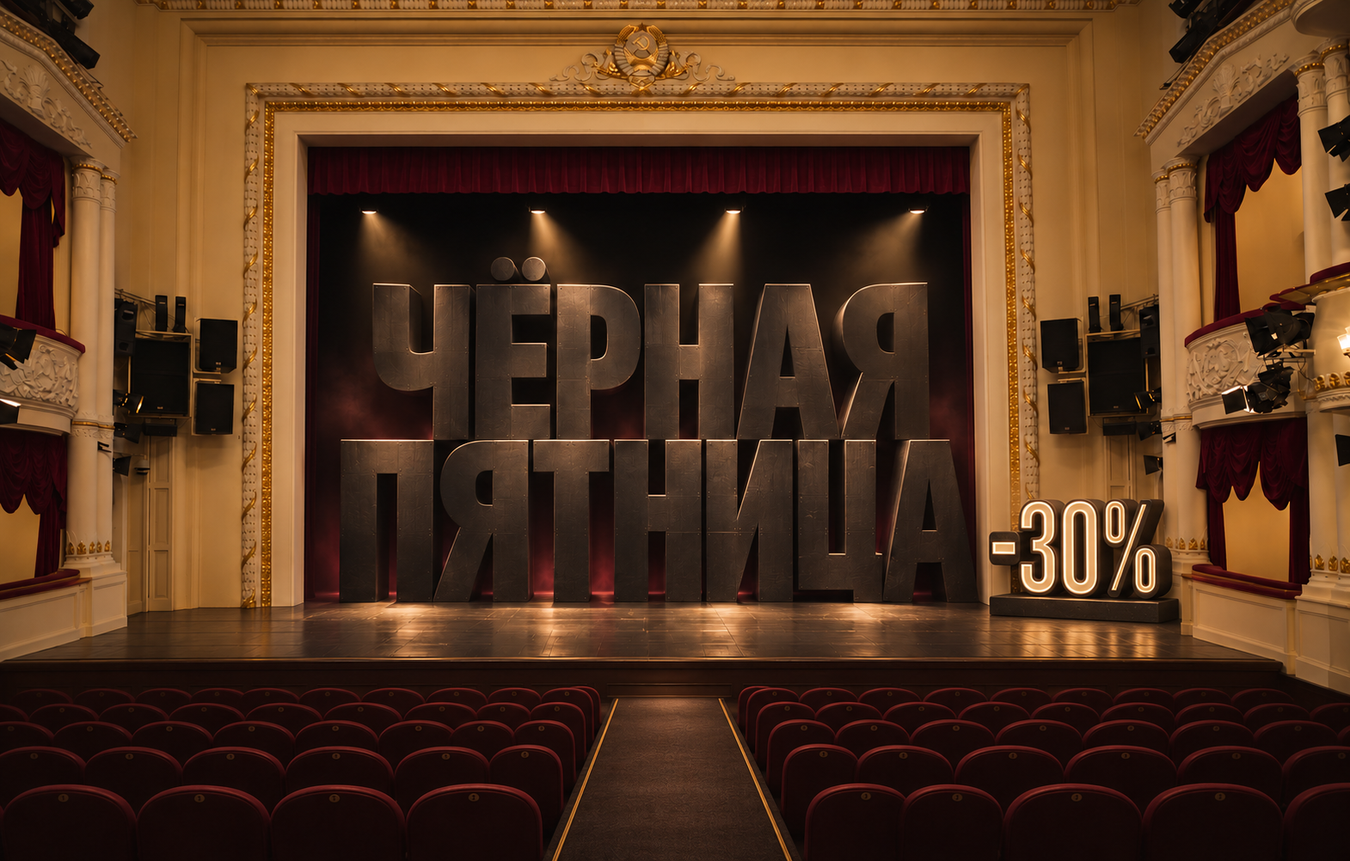
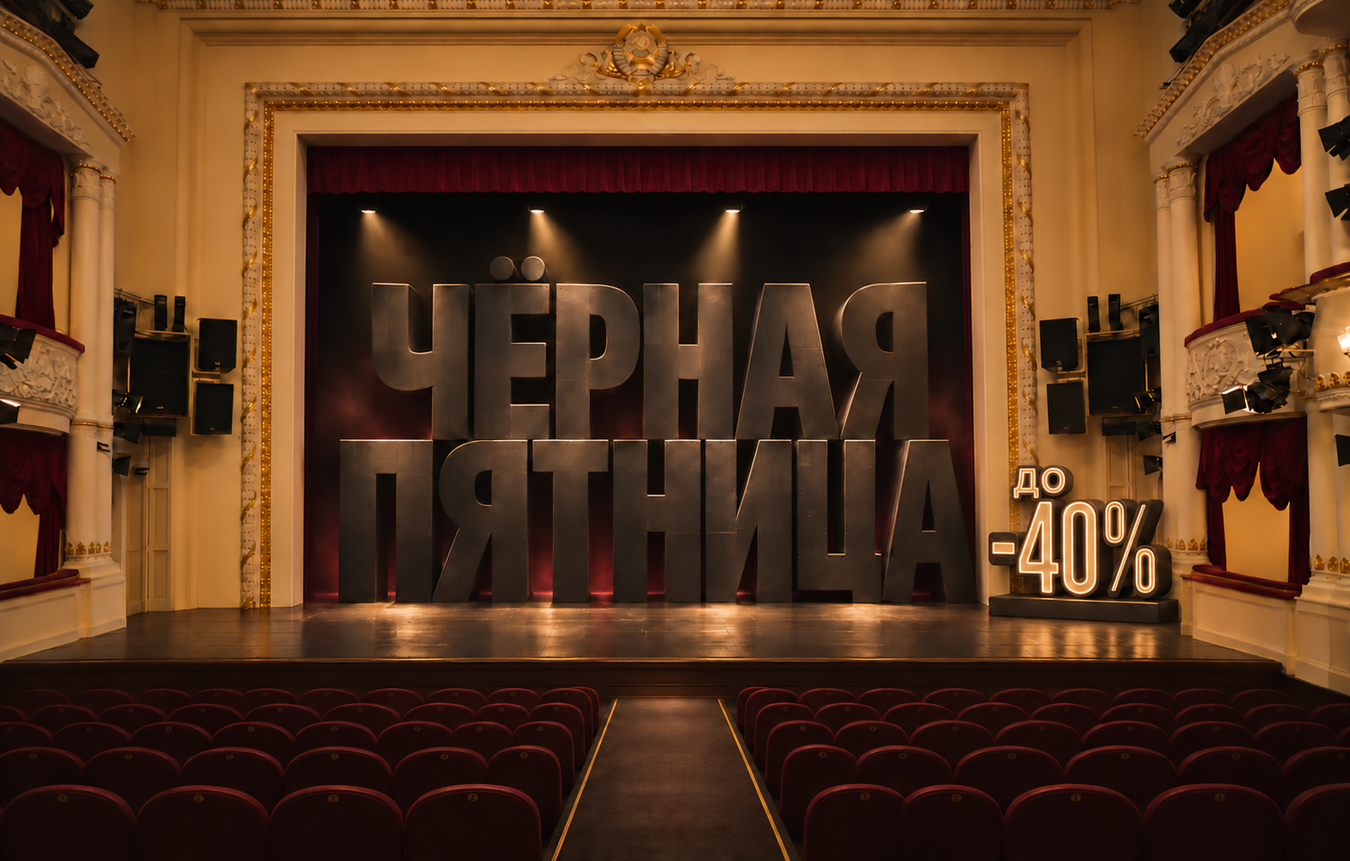
Add ПУШКА40 January stage and new −40% hero visual

diff --git a/src/components/promo/shows.ts b/src/components/promo/shows.ts
@@ -5,22 +5,41 @@ import servant from "@/assets/posters/servant.jpg";
 import krasavec from "@/assets/posters/handsome-man.jpg";
 import threeIvans from "@/assets/posters/three-ivans-stage.png";
 import idiot from "@/assets/posters/idiot.jpg";
+import reserve from "@/assets/posters/reserve.jpg";
 import tomorrowWasWar from "@/assets/posters/tomorrow-was-war.jpg";
 
+const JAN_FROM = "2026-11-25T00:00:00+03:00";
+const ext = (e: number, p: number) =>
+  `https://tickets-external.mos.ru/widget/wv2/ticket-selection?eventId=${e}&performanceId=${p}&agentId=museum110_notmos&system_name=pushkin`;
+
 export const shows: Show[] = [
-  { start: "2026-11-28T19:00:00+03:00", title: "Тартюф", discount: 30, poster: tartuffe, href: "https://tickets.mos.ru/widget/wv2/ticket-selection?eventId=71607&performanceId=57299089&agentId=museum110_reserv&system_name=pushkin" },
-  { start: "2026-11-29T12:00:00+03:00", title: "Три Ивана", discount: 30, poster: threeIvans, href: "https://tickets.mos.ru/widget/wv2/ticket-selection?eventId=71670&performanceId=57298798&agentId=museum110_reserv&system_name=pushkin" },
-  { start: "2026-11-29T19:00:00+03:00", title: "Слуга двух господ", discount: 30, poster: servant, href: "https://tickets.mos.ru/widget/wv2/ticket-selection?eventId=68708&performanceId=57299420&agentId=museum110_reserv&system_name=pushkin" },
-  { start: "2026-12-01T19:00:00+03:00", title: "Завтра была война", discount: 30, poster: tomorrowWasWar, href: "https://tickets-external.mos.ru/widget/wv2/ticket-selection?eventId=68700&performanceId=59543075&agentId=museum110_notmos&system_name=pushkin" },
-  { start: "2026-12-02T19:00:00+03:00", title: "Идиот", discount: 30, poster: idiot, href: "https://tickets-external.mos.ru/widget/wv2/ticket-selection?eventId=116238&performanceId=59543779&agentId=museum110_notmos&system_name=pushkin" },
-  { start: "2026-12-03T19:00:00+03:00", title: "Влюблённый Шекспир", discount: 30, poster: shakespeare, href: "https://tickets-external.mos.ru/widget/wv2/ticket-selection?eventId=68640&performanceId=59543969&agentId=museum110_notmos&system_name=pushkin" },
-  { start: "2026-12-12T12:00:00+03:00", title: "Три Ивана", discount: 30, poster: threeIvans, href: "https://tickets-external.mos.ru/widget/wv2/ticket-selection?eventId=71670&performanceId=59551212&agentId=museum110_notmos&system_name=pushkin" },
-  { start: "2026-12-19T19:00:00+03:00", title: "Идиот", discount: 30, poster: idiot, href: "https://tickets-external.mos.ru/widget/wv2/ticket-selection?eventId=116238&performanceId=59549609&agentId=museum110_notmos&system_name=pushkin" },
-  { start: "2026-12-24T19:00:00+03:00", title: "Красавец мужчина", discount: 30, poster: krasavec, href: "https://tickets-external.mos.ru/widget/wv2/ticket-selection?eventId=71673&performanceId=59555964&agentId=museum110_notmos&system_name=pushkin" },
-  { start: "2026-12-27T12:00:00+03:00", title: "Три Ивана", discount: 30, poster: threeIvans, href: "https://tickets-external.mos.ru/widget/wv2/ticket-selection?eventId=71670&performanceId=59551543&agentId=museum110_notmos&system_name=pushkin" },
+  { start: "2026-11-28T19:00:00+03:00", title: "Тартюф", discount: 30, promoCode: "ПУШКА30", poster: tartuffe, href: "https://tickets.mos.ru/widget/wv2/ticket-selection?eventId=71607&performanceId=57299089&agentId=museum110_reserv&system_name=pushkin" },
+  { start: "2026-11-29T12:00:00+03:00", title: "Три Ивана", discount: 30, promoCode: "ПУШКА30", poster: threeIvans, href: "https://tickets.mos.ru/widget/wv2/ticket-selection?eventId=71670&performanceId=57298798&agentId=museum110_reserv&system_name=pushkin" },
+  { start: "2026-11-29T19:00:00+03:00", title: "Слуга двух господ", discount: 30, promoCode: "ПУШКА30", poster: servant, href: "https://tickets.mos.ru/widget/wv2/ticket-selection?eventId=68708&performanceId=57299420&agentId=museum110_reserv&system_name=pushkin" },
+  { start: "2026-12-01T19:00:00+03:00", title: "Завтра была война", discount: 30, promoCode: "ПУШКА30", poster: tomorrowWasWar, href: "https://tickets-external.mos.ru/widget/wv2/ticket-selection?eventId=68700&performanceId=59543075&agentId=museum110_notmos&system_name=pushkin" },
+  { start: "2026-12-02T19:00:00+03:00", title: "Идиот", discount: 30, promoCode: "ПУШКА30", poster: idiot, href: "https://tickets-external.mos.ru/widget/wv2/ticket-selection?eventId=116238&performanceId=59543779&agentId=museum110_notmos&system_name=pushkin" },
+  { start: "2026-12-03T19:00:00+03:00", title: "Влюблённый Шекспир", discount: 30, promoCode: "ПУШКА30", poster: shakespeare, href: "https://tickets-external.mos.ru/widget/wv2/ticket-selection?eventId=68640&performanceId=59543969&agentId=museum110_notmos&system_name=pushkin" },
+  { start: "2026-12-12T12:00:00+03:00", title: "Три Ивана", discount: 30, promoCode: "ПУШКА30", poster: threeIvans, href: "https://tickets-external.mos.ru/widget/wv2/ticket-selection?eventId=71670&performanceId=59551212&agentId=museum110_notmos&system_name=pushkin" },
+  { start: "2026-12-19T19:00:00+03:00", title: "Идиот", discount: 30, promoCode: "ПУШКА30", poster: idiot, href: "https://tickets-external.mos.ru/widget/wv2/ticket-selection?eventId=116238&performanceId=59549609&agentId=museum110_notmos&system_name=pushkin" },
+  { start: "2026-12-24T19:00:00+03:00", title: "Красавец мужчина", discount: 30, promoCode: "ПУШКА30", poster: krasavec, href: "https://tickets-external.mos.ru/widget/wv2/ticket-selection?eventId=71673&performanceId=59555964&agentId=museum110_notmos&system_name=pushkin" },
+  { start: "2026-12-27T12:00:00+03:00", title: "Три Ивана", discount: 30, promoCode: "ПУШКА30", poster: threeIvans, href: "https://tickets-external.mos.ru/widget/wv2/ticket-selection?eventId=71670&performanceId=59551543&agentId=museum110_notmos&system_name=pushkin" },
+  { start: "2027-01-09T12:00:00+03:00", title: "Три Ивана", discount: 40, promoCode: "ПУШКА40", availableFrom: JAN_FROM, poster: threeIvans, href: ext(71670, 60719054) },
+  { start: "2027-01-10T12:00:00+03:00", title: "Аленький цветочек", discount: 40, promoCode: "ПУШКА40", availableFrom: JAN_FROM, href: ext(90922, 60719043) },
+  { start: "2027-01-10T19:00:00+03:00", title: "Тартюф", discount: 40, promoCode: "ПУШКА40", availableFrom: JAN_FROM, poster: tartuffe, href: ext(71607, 60837812) },
+  { start: "2027-01-14T19:00:00+03:00", title: "Сделка", discount: 40, promoCode: "ПУШКА40", availableFrom: JAN_FROM, href: ext(68649, 61570842) },
+  { start: "2027-01-15T19:00:00+03:00", title: "Идиот", discount: 40, promoCode: "ПУШКА40", availableFrom: JAN_FROM, poster: idiot, href: ext(116238, 61544312) },
+  { start: "2027-01-16T19:00:00+03:00", title: "Завтра была война", discount: 40, promoCode: "ПУШКА40", availableFrom: JAN_FROM, poster: tomorrowWasWar, href: ext(68700, 61544424) },
+  { start: "2027-01-21T19:00:00+03:00", title: "Заповедник", discount: 40, promoCode: "ПУШКА40", availableFrom: JAN_FROM, poster: reserve, href: ext(68683, 61547284) },
+  { start: "2027-01-26T19:00:00+03:00", title: "Космос", discount: 40, promoCode: "ПУШКА40", availableFrom: JAN_FROM, href: ext(68709, 61568104) },
+  { start: "2027-01-29T19:00:00+03:00", title: "Завтра была война", discount: 40, promoCode: "ПУШКА40", availableFrom: JAN_FROM, poster: tomorrowWasWar, href: ext(68700, 61568113) },
+  { start: "2027-01-30T12:00:00+03:00", title: "Три Ивана", discount: 40, promoCode: "ПУШКА40", availableFrom: JAN_FROM, poster: threeIvans, href: ext(71670, 61568133) },
+  { start: "2027-01-30T19:00:00+03:00", title: "Идиот", discount: 40, promoCode: "ПУШКА40", availableFrom: JAN_FROM, poster: idiot, href: ext(116238, 61568118) },
+  { start: "2027-01-31T19:00:00+03:00", title: "Слуга двух господ", discount: 40, promoCode: "ПУШКА40", availableFrom: JAN_FROM, poster: servant, href: ext(68708, 61568126) },
 ];
 
 /** Shows still on sale: a card disappears at the moment the performance starts. */
 export function upcomingShows(list: Show[], now: number): Show[] {
-  return list.filter((s) => now < new Date(s.start).getTime());
+  return list.filter(
+    (s) => now < new Date(s.start).getTime() && (!s.availableFrom || now >= new Date(s.availableFrom).getTime()),
+  );
 }

diff --git a/src/components/promo/Hero.tsx b/src/components/promo/Hero.tsx
@@ -1,20 +1,20 @@
 import { useState } from "react";
 import { toast } from "sonner";
 import { Copy, Check, ArrowDown } from "lucide-react";
-import stage from "@/assets/black_friday_stage.png";
 import stageWide from "@/assets/black_friday_stage_wide.png";
 
 export const PROMO_CODE = "ПУШКА30";
+export const PROMO_CODE_JAN = "ПУШКА40";
 
 export function Hero() {
-  const [copied, setCopied] = useState(false);
+  const [copied, setCopied] = useState<string | null>(null);
 
-  const handleCopy = async () => {
+  const handleCopy = async (code: string) => {
     try {
-      await navigator.clipboard.writeText(PROMO_CODE);
-      setCopied(true);
+      await navigator.clipboard.writeText(code);
+      setCopied(code);
       toast.success("Промокод скопирован");
-      setTimeout(() => setCopied(false), 2000);
+      setTimeout(() => setCopied(null), 2000);
     } catch {
       toast.error("Не удалось скопировать");
     }
@@ -24,18 +24,18 @@ export function Hero() {
     <section id="top" className="relative isolate overflow-hidden bg-background">
       {/* blurred ambient fill so the portrait visual spreads across wide screens */}
       <img
-        src={stage}
+        src={stageWide}
         alt=""
         aria-hidden="true"
         className="absolute inset-0 -z-20 h-full w-full scale-110 object-cover opacity-50 blur-2xl"
       />
       <div className="relative mx-auto -z-10 max-w-3xl md:hidden">
         <img
-          src={stage}
-          alt="Чёрная пятница в Театре имени Пушкина — скидка 30%"
-          width={1024}
-          height={1536}
-          className="block aspect-[2/3] max-h-[100vh] w-full object-cover object-[center_35%]"
+          src={stageWide}
+          alt="Чёрная пятница в Театре имени Пушкина — скидки до 40%"
+          width={1570}
+          height={1002}
+          className="block aspect-[4/5] max-h-[100vh] w-full object-cover object-[center_45%]"
         />
         <div className="pointer-events-none absolute inset-y-0 left-0 w-1/3 bg-gradient-to-r from-background/80 via-background/20 to-transparent" />
         <div className="pointer-events-none absolute inset-y-0 right-0 w-1/3 bg-gradient-to-l from-background/80 via-background/20 to-transparent" />
@@ -43,7 +43,7 @@ export function Hero() {
       <div className="relative -z-10 hidden md:block">
         <img
           src={stageWide}
-          alt="Чёрная пятница в Театре имени Пушкина — скидка 30%"
+          alt="Чёрная пятница в Театре имени Пушкина — скидки до 40%"
           width={1570}
           height={1002}
           className="block h-[88vh] min-h-[560px] w-full object-cover object-[center_40%]"
@@ -54,14 +54,15 @@ export function Hero() {
       <div className="pointer-events-none absolute inset-x-0 top-0 -z-10 h-32 bg-gradient-to-b from-background to-transparent" />
       <div className="pointer-events-none absolute inset-x-0 bottom-0 -z-10 h-[35%] bg-gradient-to-t from-background via-background/70 to-transparent" />
 
-      <h1 className="sr-only">Чёрная пятница в Театре имени Пушкина — скидка 30% по промокоду {PROMO_CODE}</h1>
+      <h1 className="sr-only">Чёрная пятница в Театре имени Пушкина — скидки до 40% по промокодам {PROMO_CODE} и {PROMO_CODE_JAN}</h1>
 
       <div className="relative -mt-24 px-4 pb-12 sm:-mt-28 sm:pb-16">
         <div className="mx-auto flex max-w-3xl flex-col items-center text-center">
           <p className=" max-w-xl text-base text-foreground/85 sm:text-lg">
-            Скидка <span className="font-bold text-accent">30%</span> на&nbsp;избранные спектакли
-            ноября и&nbsp;декабря по&nbsp;промокоду{" "}
-            <span className="font-bold text-foreground">{PROMO_CODE}</span>.
+            Скидка <span className="font-bold text-accent">30%</span> на&nbsp;спектакли ноября и&nbsp;декабря
+            по&nbsp;промокоду <span className="font-bold text-foreground">{PROMO_CODE}</span> и&nbsp;скидка{" "}
+            <span className="font-bold text-accent">40%</span> на&nbsp;спектакли января по&nbsp;промокоду{" "}
+            <span className="font-bold text-foreground">{PROMO_CODE_JAN}</span>.
           </p>
           <div className="mt-6 flex flex-wrap items-center justify-center gap-3">
             <a
@@ -73,7 +74,7 @@ export function Hero() {
             </a>
             <button
               type="button"
-              onClick={handleCopy}
+              onClick={() => handleCopy(PROMO_CODE)}
               className="relative inline-flex items-center gap-3 border-2 border-dashed border-accent bg-velvet px-5 py-3 text-left transition-transform hover:-translate-y-0.5"
               aria-label={`Скопировать промокод ${PROMO_CODE}`}
             >
@@ -84,7 +85,23 @@ export function Hero() {
                 {PROMO_CODE}
               </div>
               <div className="flex h-7 w-7 items-center justify-center bg-accent text-accent-foreground">
-                {copied ? <Check className="h-3.5 w-3.5" /> : <Copy className="h-3.5 w-3.5" />}
+                {copied === PROMO_CODE ? <Check className="h-3.5 w-3.5" /> : <Copy className="h-3.5 w-3.5" />}
+              </div>
+            </button>
+            <button
+              type="button"
+              onClick={() => handleCopy(PROMO_CODE_JAN)}
+              className="relative inline-flex items-center gap-3 border-2 border-dashed border-accent bg-velvet px-5 py-3 text-left transition-transform hover:-translate-y-0.5"
+              aria-label={`Скопировать промокод ${PROMO_CODE_JAN}`}
+            >
+              <div className="text-[10px] font-bold uppercase tracking-widest text-foreground/70">
+                Промокод
+              </div>
+              <div className="font-display text-xl font-bold tracking-wider text-accent sm:text-2xl">
+                {PROMO_CODE_JAN}
+              </div>
+              <div className="flex h-7 w-7 items-center justify-center bg-accent text-accent-foreground">
+                {copied === PROMO_CODE_JAN ? <Check className="h-3.5 w-3.5" /> : <Copy className="h-3.5 w-3.5" />}
               </div>
             </button>
           </div>

diff --git a/src/components/promo/shows.test.ts b/src/components/promo/shows.test.ts
@@ -17,9 +17,28 @@ describe("Black Friday shows", () => {
     const show = shows.find((s) => s.start.startsWith(date) && s.title === title);
     expect(show?.href).toBe(`https://${host}/widget/wv2/ticket-selection?eventId=${event}&performanceId=${performance}&agentId=${agent}&system_name=pushkin`);
   });
-  it("has 10 performances, all 30% off", () => {
-    expect(shows).toHaveLength(10);
-    expect(shows.every((s) => s.discount === 30)).toBe(true);
+  it("has 10 Nov–Dec performances at 30% with ПУШКА30 and 12 January at 40% with ПУШКА40", () => {
+    expect(shows).toHaveLength(22);
+    const jan = shows.filter((s) => s.start.startsWith("2027-01"));
+    expect(jan).toHaveLength(12);
+    expect(jan.every((s) => s.discount === 40 && s.promoCode === "ПУШКА40")).toBe(true);
+    expect(shows.filter((s) => !s.start.startsWith("2027")).every((s) => s.discount === 30 && s.promoCode === "ПУШКА30")).toBe(true);
+  });
+  it("shows January cards only from 25 Nov 00:00 MSK", () => {
+    const jan = (now: number) => upcomingShows(shows, now).filter((s) => s.start.startsWith("2027")).length;
+    expect(jan(Date.parse("2026-11-24T20:59:00Z"))).toBe(0);
+    expect(jan(Date.parse("2026-11-24T21:00:00Z"))).toBe(12);
+  });
+  it.each([
+    ["2027-01-09T12:00", "Три Ивана", 60719054], ["2027-01-10T12:00", "Аленький цветочек", 60719043],
+    ["2027-01-10T19:00", "Тартюф", 60837812], ["2027-01-14T19:00", "Сделка", 61570842],
+    ["2027-01-15T19:00", "Идиот", 61544312], ["2027-01-16T19:00", "Завтра была война", 61544424],
+    ["2027-01-21T19:00", "Заповедник", 61547284], ["2027-01-26T19:00", "Космос", 61568104],
+    ["2027-01-29T19:00", "Завтра была война", 61568113], ["2027-01-30T12:00", "Три Ивана", 61568133],
+    ["2027-01-30T19:00", "Идиот", 61568118], ["2027-01-31T19:00", "Слуга двух господ", 61568126],
+  ])("January %s %s links to performance %s", (start, title, perf) => {
+    const show = shows.find((s) => s.start.startsWith(start) && s.title === title);
+    expect(show?.href).toContain(`performanceId=${perf}&agentId=museum110_notmos`);
   });
   it.each(["2026-11-29", "2026-12-12", "2026-12-27"])("starts Три Ивана at 12:00 MSK and hides it at that time on %s", (date) => {
     const show = shows.find((s) => s.title === "Три Ивана" && s.start.startsWith(date));
@@ -30,6 +49,6 @@ describe("Black Friday shows", () => {
     expect(after.some((s) => s === show)).toBe(false);
   });
   it("hides Тартюф at 19:00 MSK on 28 Nov", () => {
-    expect(upcomingShows(shows, Date.parse("2026-11-28T16:00:00Z")).some((s) => s.title === "Тартюф")).toBe(false);
+    expect(upcomingShows(shows, Date.parse("2026-11-28T16:00:00Z")).some((s) => s.title === "Тартюф" && s.start.startsWith("2026-11-28"))).toBe(false);
   });
 });

diff --git a/src/routes/index.tsx b/src/routes/index.tsx
@@ -9,16 +9,16 @@ import { Footer } from "@/components/promo/Footer";
 export const Route = createFileRoute("/")({
   head: () => ({
     meta: [
-      { title: "Чёрная пятница в Театре Пушкина — скидка 30% по промокоду ПУШКА30" },
+      { title: "Чёрная пятница в Театре Пушкина — скидки до 40% по промокодам ПУШКА30 и ПУШКА40" },
       {
         name: "description",
         content:
-          "Чёрная пятница в Театре имени Пушкина: скидка 30% на избранные спектакли ноября и декабря 2026 по промокоду ПУШКА30.",
+          "Чёрная пятница в Театре имени Пушкина: скидка 30% на спектакли ноября–декабря по промокоду ПУШКА30 и 40% на спектакли января по промокоду ПУШКА40.",
       },
-      { property: "og:title", content: "Чёрная пятница в Театре Пушкина — −30%" },
+      { property: "og:title", content: "Чёрная пятница в Театре Пушкина — до −40%" },
       {
         property: "og:description",
-        content: "Промокод ПУШКА30: скидка 30% на спектакли ноября и декабря в Театре имени Пушкина.",
+        content: "ПУШКА30 — −30% на ноябрь и декабрь, ПУШКА40 — −40% на январь в Театре имени Пушкина.",
       },
       { property: "og:type", content: "website" },
       { name: "twitter:card", content: "summary_large_image" },

diff --git a/src/components/promo/ShowsGrid.tsx b/src/components/promo/ShowsGrid.tsx
@@ -2,7 +2,7 @@ import { useEffect, useMemo, useState } from "react";
 import { ShowCard } from "./ShowCard";
 import { shows, upcomingShows } from "./shows";
 
-type Month = "all" | 10 | 11;
+type Month = "all" | 10 | 11 | 0;
 const monthOf = (iso: string) => new Date(new Date(iso).getTime() + 3 * 3600_000).getUTCMonth();
 
 export function ShowsGrid() {
@@ -20,7 +20,7 @@ export function ShowsGrid() {
     () =>
       upcoming
         .filter((s) => month === "all" || monthOf(s.start) === month)
-        .sort((a, b) => a.start.localeCompare(b.start)),
+        .sort((a, b) => Date.parse(a.start) - Date.parse(b.start)),
     [upcoming, month],
   );
 
@@ -47,7 +47,7 @@ export function ShowsGrid() {
 
         <div className="mt-8 flex flex-col gap-3 lg:sticky lg:top-[72px] lg:z-30 lg:-mx-2 lg:bg-background/85 lg:px-2 lg:py-3 lg:backdrop-blur">
           <div className="-mx-4 flex gap-2 overflow-x-auto px-4 pb-1 sm:mx-0 sm:flex-wrap sm:px-0">
-            {([["all", "Все даты"], [10, "Ноябрь"], [11, "Декабрь"]] as [Month, string][]).map(
+            {([["all", "Все даты"], [10, "Ноябрь"], [11, "Декабрь"], [0, "Январь"]] as [Month, string][]).map(
               ([v, l]) => (
                 <button key={String(v)} type="button" onClick={() => setMonth(v)} className={pill(month === v)}>
                   {l}

diff --git a/src/components/promo/Faq.tsx b/src/components/promo/Faq.tsx
@@ -1,11 +1,11 @@
 const items = [
   {
     q: "Как воспользоваться скидкой?",
-    a: "Введите промокод ПУШКА30 на финальном шаге оформления билета на сайте Театра имени Пушкина. Скидка распространяется на билеты от 1000 рублей.",
+    a: "Введите промокод ПУШКА30 (ноябрь–декабрь) или ПУШКА40 (январь) на финальном шаге оформления билета на сайте Театра имени Пушкина. Скидка распространяется на билеты от 1000 рублей.",
   },
   {
     q: "На какие спектакли действует акция?",
-    a: "Только на избранные показы из афиши выше — с 28 ноября по 27 декабря 2026 года. Скидка на все спектакли — 30%.",
+    a: "Только на избранные показы из афиши выше — с 28 ноября 2026 по 31 января 2027 года. Скидка 30% на ноябрь–декабрь по ПУШКА30 и 40% на январь по ПУШКА40.",
   },
   {
     q: "Можно ли совмещать со другими скидками?",

diff --git a/src/components/promo/HowItWorks.tsx b/src/components/promo/HowItWorks.tsx
@@ -1,7 +1,7 @@
 const steps = [
-  { n: "01", title: "Выберите спектакль", text: "Откройте афишу акции и выберите дату в ноябре или декабре." },
-  { n: "02", title: "Введите промокод", text: "Укажите промокод ПУШКА30 при оформлении билета." },
-  { n: "03", title: "Получите скидку", text: "Цена снизится автоматически — на 30% от номинала." },
+  { n: "01", title: "Выберите спектакль", text: "Откройте афишу акции и выберите дату в ноябре, декабре или январе." },
+  { n: "02", title: "Введите промокод", text: "Укажите промокод с карточки спектакля (ПУШКА30 или ПУШКА40) при оформлении билета." },
+  { n: "03", title: "Получите скидку", text: "Цена снизится автоматически — на 30% или 40% от номинала." },
 ];
 
 export function HowItWorks() {

diff --git a/src/components/promo/ShowCard.tsx b/src/components/promo/ShowCard.tsx
@@ -2,6 +2,8 @@ export type Show = {
   start: string; // ISO with +03:00
   title: string;
   discount: number;
+  promoCode: string;
+  availableFrom?: string; // ISO; card hidden before this moment
   poster?: string;
   href: string;
 };
@@ -60,6 +62,9 @@ export function ShowCard({ show }: { show: Show }) {
           <h3 className="font-display text-lg font-bold uppercase leading-tight sm:text-xl">
             {show.title}
           </h3>
+          <p className="mt-1 text-xs font-semibold uppercase tracking-widest text-foreground/60">
+            Промокод <span className="text-accent">{show.promoCode}</span>
+          </p>
           <a
             href={show.href}
             target="_blank"

diff --git a/src/components/promo/self-hosted-assets.test.ts b/src/components/promo/self-hosted-assets.test.ts
@@ -14,7 +14,7 @@ function files(directory: string): string[] {
 describe("self-hosted image assets", () => {
   it.each([
     ["black_friday_stage.png", 2203889],
-    ["black_friday_stage_wide.png", 1999058],
+    ["black_friday_stage_wide.png", 1805311],
     ["posters/handsome-man.jpg", 512857],
     ["posters/three-ivans-stage.png", 1271854],
     ["posters/three-ivans.jpg", 132452],

diff --git a/src/components/promo/Header.tsx b/src/components/promo/Header.tsx
@@ -36,7 +36,7 @@ export function Header() {
             </a>
           </div>
           <span className="bg-primary px-2.5 py-0.5 text-[10px] font-bold uppercase tracking-widest text-primary-foreground">
-            Чёрная пятница · −30%
+            Чёрная пятница · до −40%
           </span>
         </div>
       </div>
